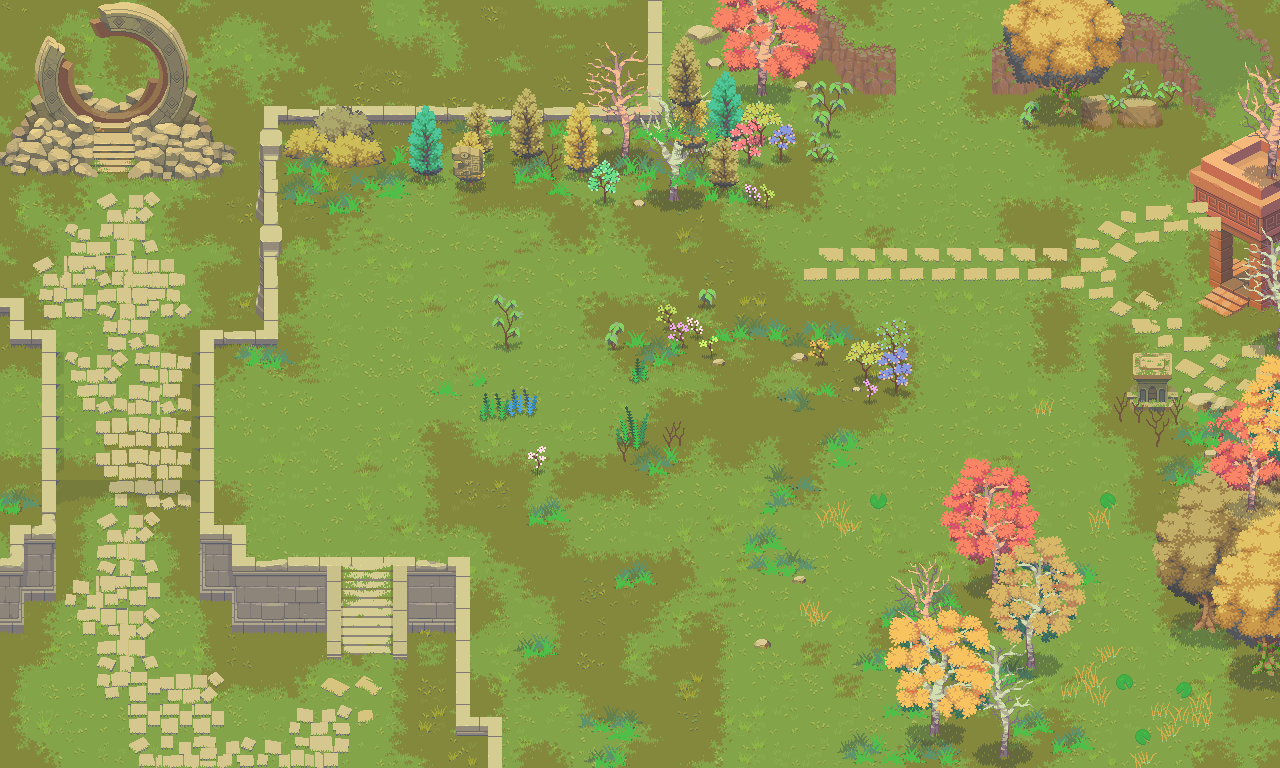
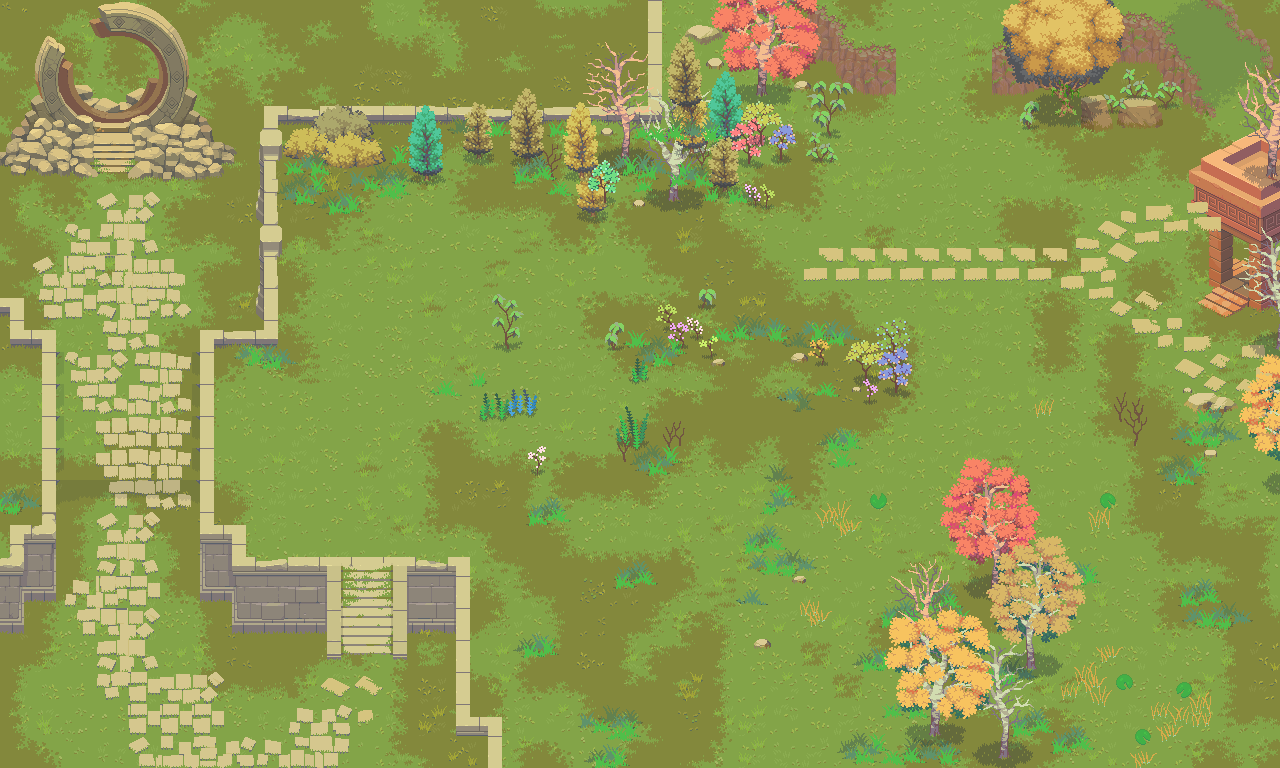
zone1(ruins): sync user's prop-cleanup pass + fix NW spawn
User refined the ruins TMX in the Game X folder — visual prop
adjustments (one prop relocated, six decorative props removed in the
central / east-mid areas). Gameplay layers (gameplay_walkable +
gameplay_collision) unchanged this pass — the polygons from the
prior tighter-walkability iteration still cover the same blocked
cells (8 polygons → 269 blocked cells, 1 walkable rect → 12 cleared).

Re-baking exposed that NW corner spawn (4,4) is BLOCKED by the
existing collision polygon at the NW courtyard. Prior validation
flagged "(was: same)" so the spawn was assumed-OK, but BFS
reachability says otherwise. Replaced with (3,6) — first walkable
row in the NW area, in main 620-cell component, BFS-reachable to
boss. All other spawns + heroSpawn + boss verified OK.

Build green. Re-bake produces a slightly smaller PNG (220→215KB)
from sharp encoding the same prop layout with one less object.

diff --git a/slime-depths/src/zoneEncounters.js b/slime-depths/src/zoneEncounters.js
@@ -51,12 +51,18 @@ export const ZONE_ENCOUNTERS = Object.freeze({
     // walkable + reachable from boss via BFS. Previously 4/6 of the
     // configured spawns landed inside walls (sub-tile-rect cells).
     spawnPoints: [
-      { x:  4, y:  4 },     // NW corner          (was: same)
-      { x: 36, y:  5 },     // NE                 (was: 35,4 — BLOCKED)
-      { x:  4, y: 20 },     // SW                 (was: same)
-      { x: 16, y: 23 },     // South-west         (was: 35,20 — SE corner had no main-component cells)
-      { x: 16, y:  0 },     // N midline          (was: 19,2 — BLOCKED)
-      { x: 18, y: 23 },     // S midline          (was: 19,22 — BLOCKED)
+      // 2026-05-08 — re-validated post user's tighter ruins collision pass
+      // (8 polygons + 1 walkable rect, 269 blocked cells). spawn0 NW
+      // (4,4) was now BLOCKED by the refined polygon at the NW
+      // courtyard corner. Picked (3,6) instead — first walkable row in
+      // the NW area, in main 620-cell component, BFS-reachable to boss.
+      // All other spawns survived the new collision pass.
+      { x:  3, y:  6 },     // NW                 (was: 4,4 — BLOCKED post-tighter-collision)
+      { x: 36, y:  5 },     // NE                 (was: 35,4)
+      { x:  4, y: 20 },     // SW                 (still valid)
+      { x: 16, y: 23 },     // S-mid-west         (still valid)
+      { x: 16, y:  0 },     // N midline          (still valid)
+      { x: 18, y: 23 },     // S midline          (still valid)
     ],
     waves: [
       // Wave 1 — light skirmish. Slimes from one side.
